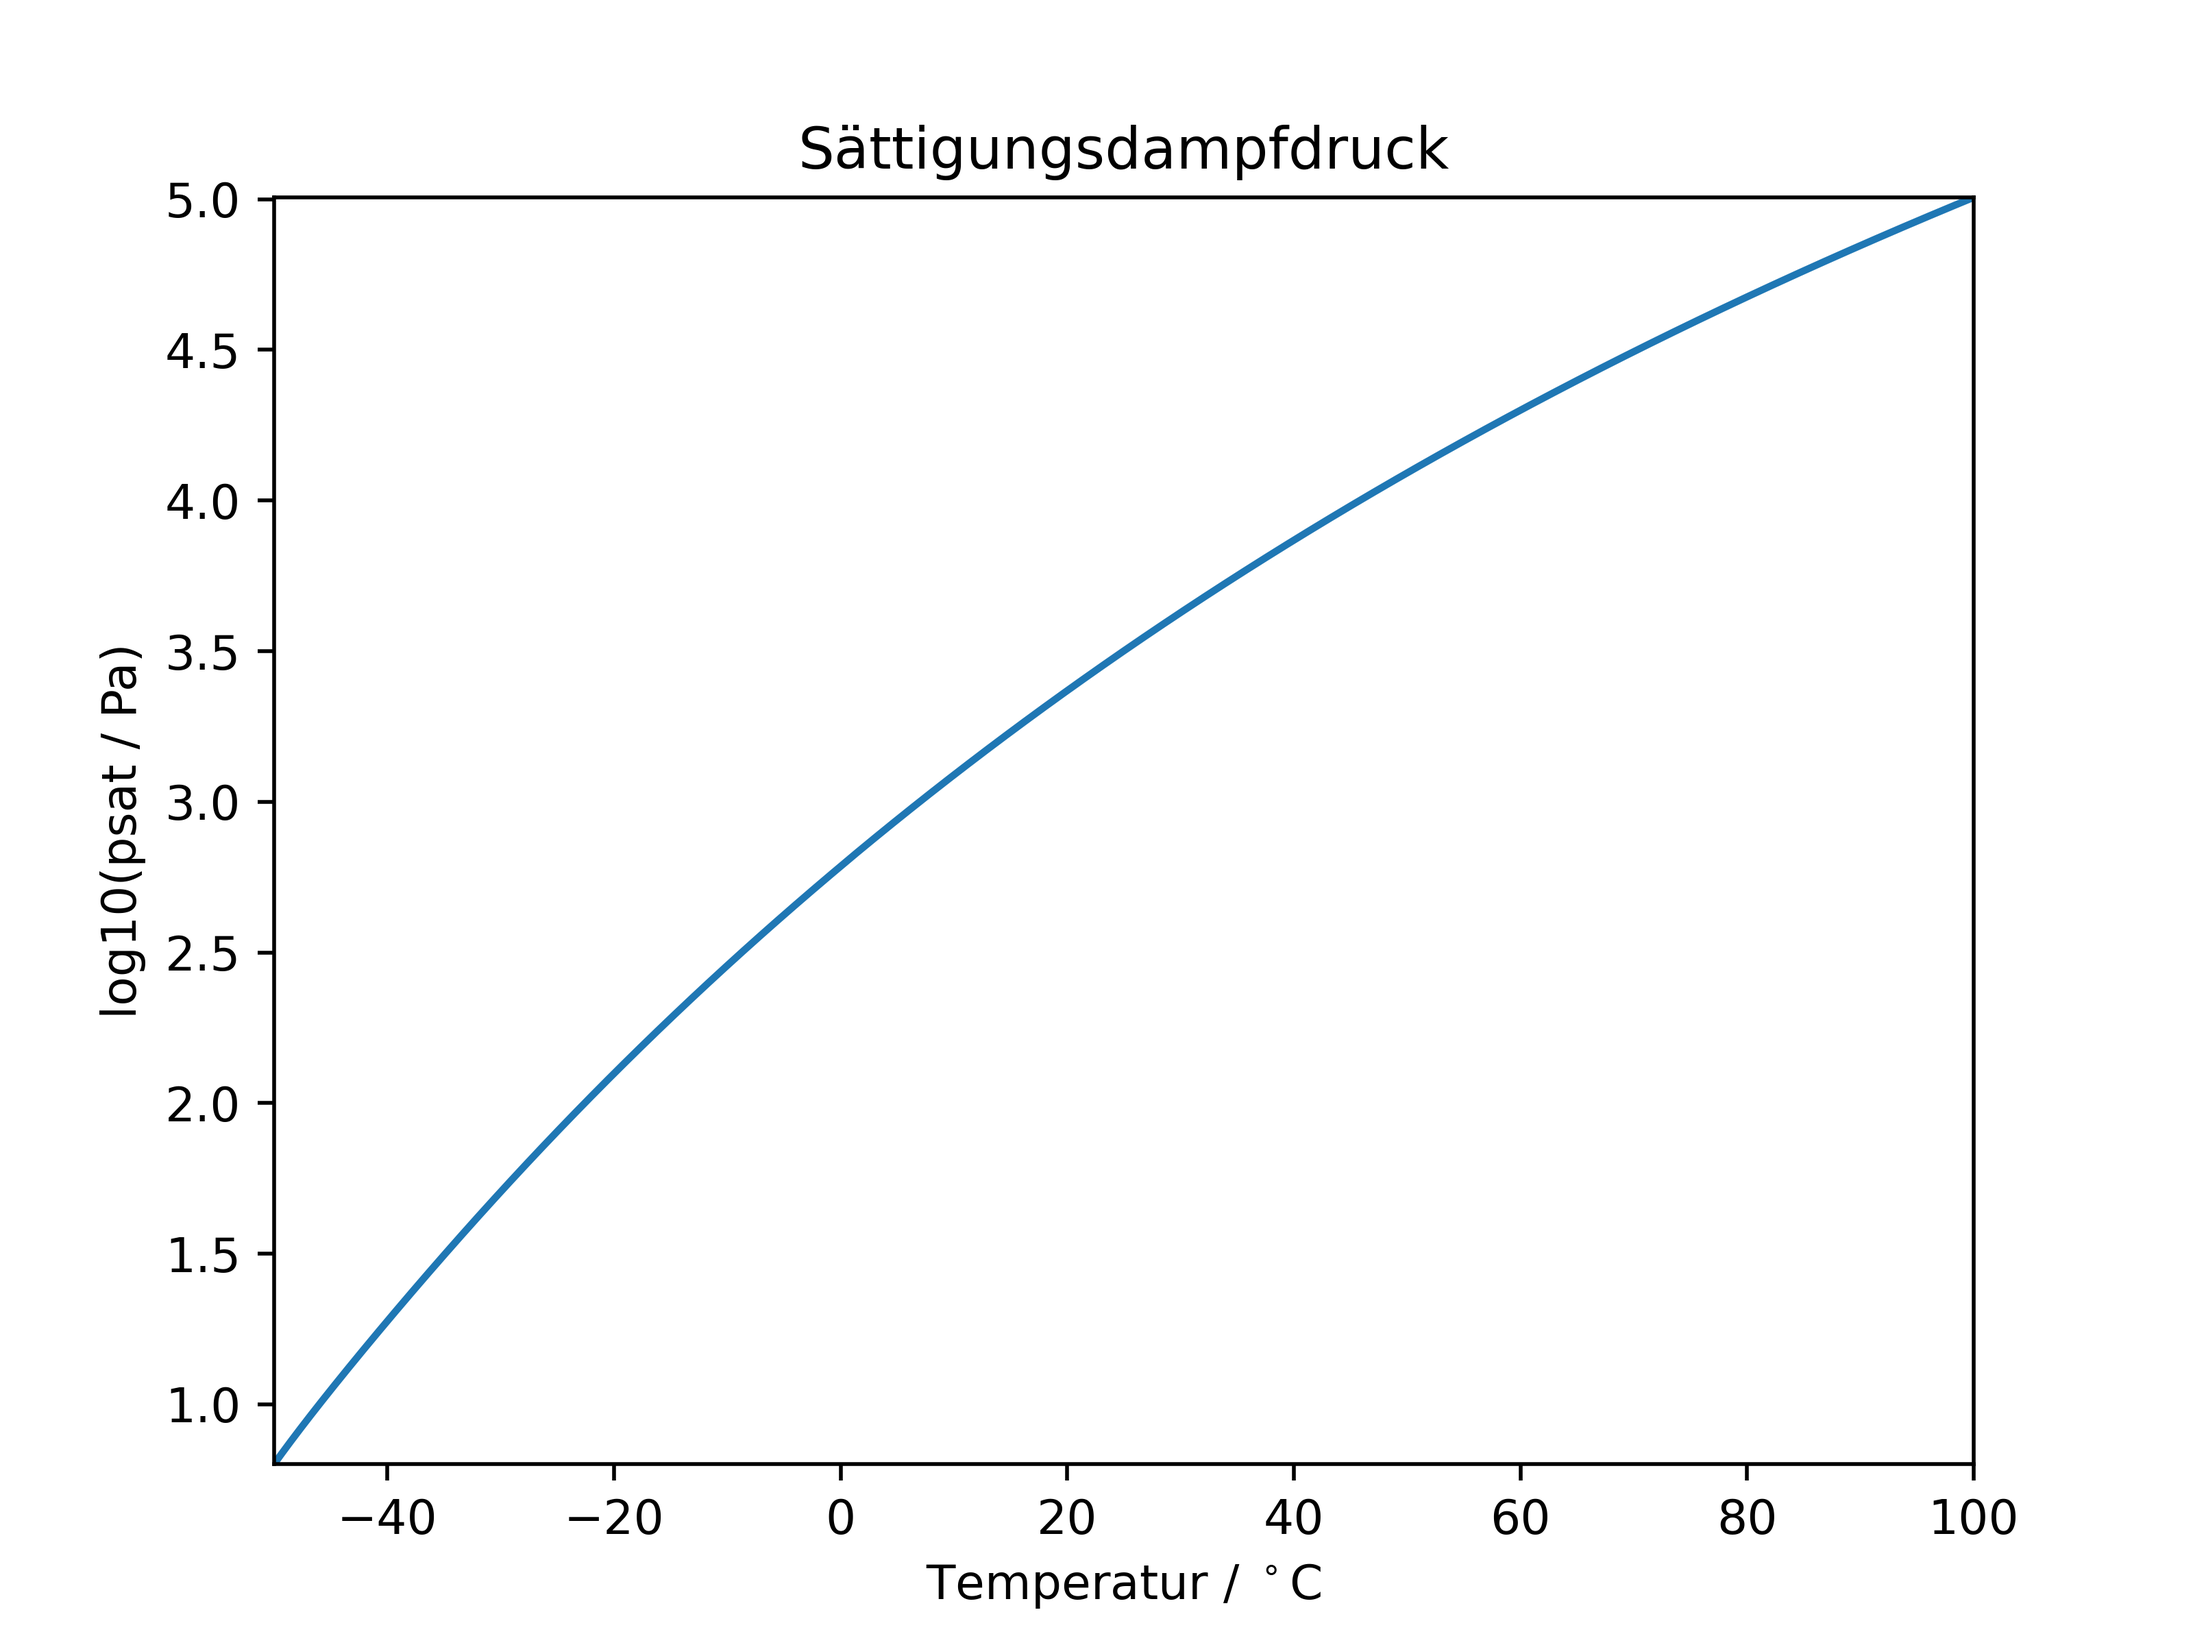
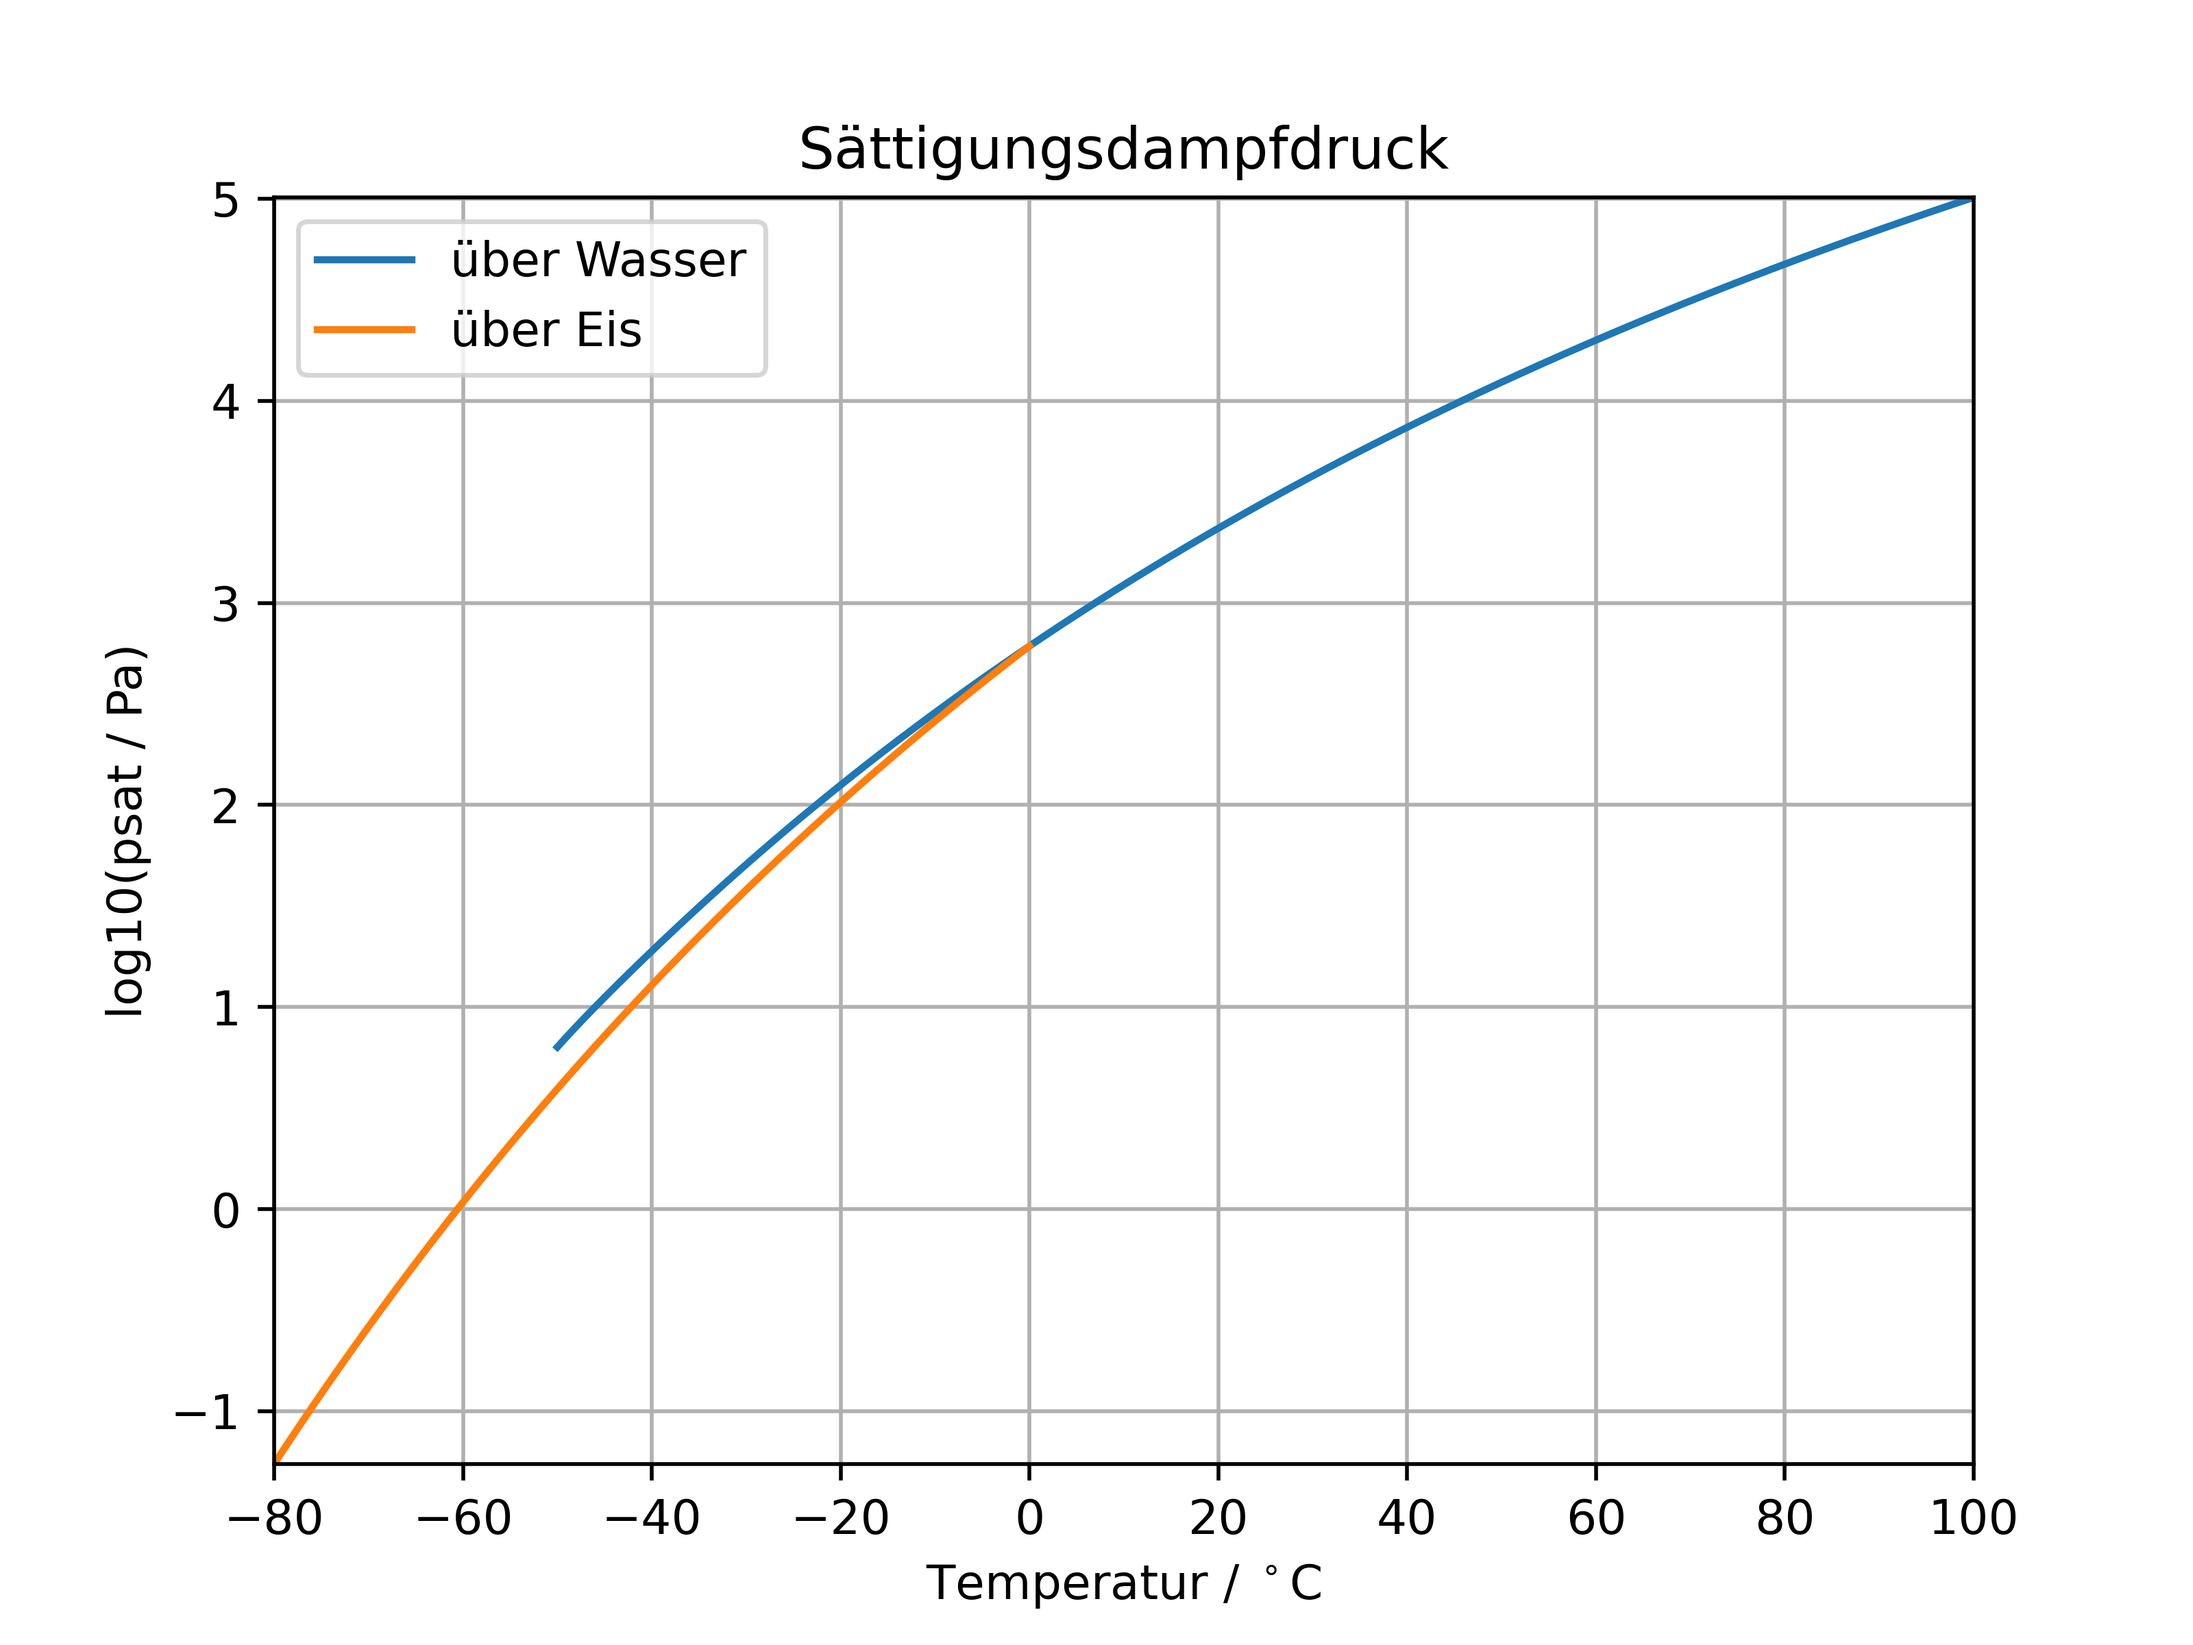
saturation pressure plot extended

diff --git a/sat_pressure.py b/sat_pressure.py
@@ -2,9 +2,11 @@ import numpy as np;
 import matplotlib.pyplot as plt;
 import math;
 
-fig = plt.figure();
-
-epsilon = 1e-3;
+def sat_pressure_ice(temp_c):
+	
+	result = math.exp(43.494 - 6545.8/(temp_c + 278.0))/(temp_c + 868.0)**2
+	
+	return result
 
 def sat_pressure_water(temp_c):
 	
@@ -22,16 +24,34 @@ def sat_pressure_water(temp_c):
 	
 	return result
 
-temp_c_vector = np.linspace(-50, 100, 10000);
-sat_pressure_vector = np.zeros([len(temp_c_vector)]);
+temp_c_water_vector = np.linspace(-50, 100, 10000);
+sat_pressure_water_vector = np.zeros([len(temp_c_water_vector)]);
 
-for ji in range(len(temp_c_vector)):
-	sat_pressure_vector[ji] = math.log10(sat_pressure_water(temp_c_vector[ji]))
+for ji in range(len(temp_c_water_vector)):
+	sat_pressure_water_vector[ji] = math.log10(sat_pressure_water(temp_c_water_vector[ji]))
 
-plt.title("Sättigungsdampfdruck");
-plt.plot(temp_c_vector, sat_pressure_vector);
-plt.xlim([min(temp_c_vector), max(temp_c_vector)]);
-plt.ylim([min(sat_pressure_vector), max(sat_pressure_vector)]);
-plt.xlabel(r"Temperatur / $^\circ$C");
-plt.ylabel("log10(psat / Pa)");
-fig.savefig("figs/sat_pressure.png", dpi = 500);
+temp_c_ice_vector = np.linspace(-80, 0, 10000);
+sat_pressure_ice_vector = np.zeros([len(temp_c_ice_vector)]);
+
+for ji in range(len(temp_c_ice_vector)):
+	sat_pressure_ice_vector[ji] = math.log10(sat_pressure_ice(temp_c_ice_vector[ji]))
+
+fig = plt.figure()
+plt.title("Sättigungsdampfdruck")
+plt.plot(temp_c_water_vector, sat_pressure_water_vector)
+plt.plot(temp_c_ice_vector, sat_pressure_ice_vector)
+plt.xlim([min(temp_c_ice_vector), max(temp_c_water_vector)])
+plt.ylim([min(sat_pressure_ice_vector), max(sat_pressure_water_vector)])
+plt.legend(["über Wasser", "über Eis"])
+plt.xlabel(r"Temperatur / $^\circ$C")
+plt.ylabel("log10(psat / Pa)")
+plt.grid()
+fig.savefig("figs/sat_pressure.png", dpi = 500)
+
+
+
+
+
+
+
+
